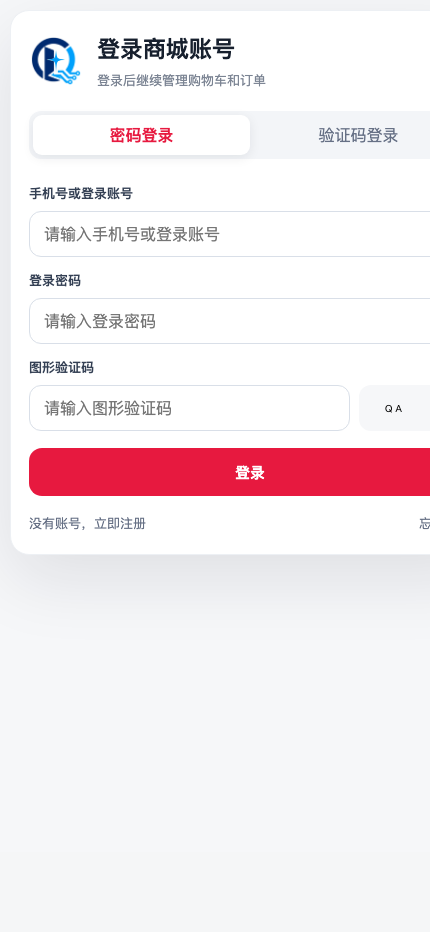
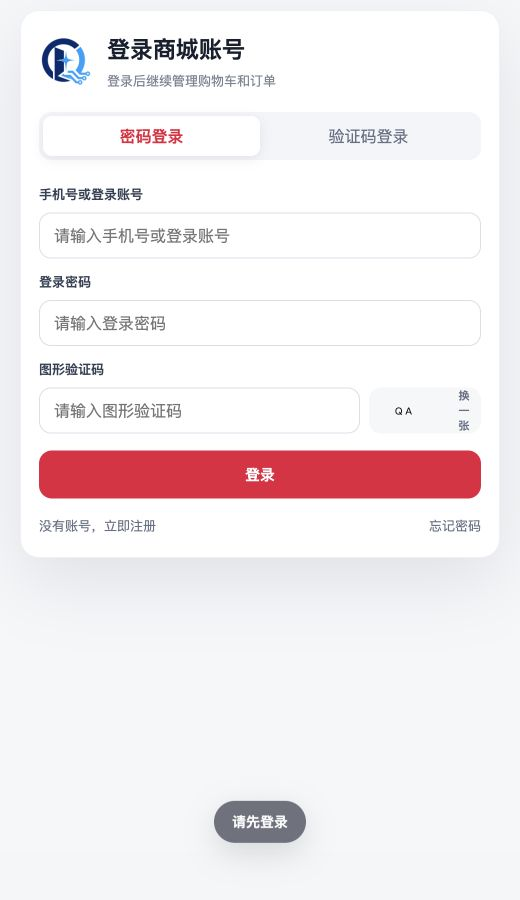
AI更新代码

diff --git a/mall-shop-web/src/App.vue b/mall-shop-web/src/App.vue
@@ -121,10 +121,10 @@ const navIconMap = { home: Home, category: Grid3x3, cart: ShoppingBag, orders: C
 const navIcon = (type) => navIconMap[type] || Home
 const bottomNavItems = computed(() => {
   let configured = null
-  let independent = false
+  let hasIndependentMarker = false
   try {
     const extra = JSON.parse(displayConfig.value.extraConfigJson || '{}')
-    independent = extra.bottomNavIndependent === 1
+    hasIndependentMarker = Object.prototype.hasOwnProperty.call(extra, 'bottomNavIndependent')
     if (Array.isArray(extra.bottomNav) && extra.bottomNav.length) {
       configured = extra.bottomNav
     }
@@ -133,7 +133,7 @@ const bottomNavItems = computed(() => {
     ? true
     : Number(displayConfig.value.showBottomCategoryNav ?? 1) === 1
   const items = resolveBottomNav(configured, { legacyCategoryEnabled })
-  if (!independent
+  if (!hasIndependentMarker
       && displayConfig.value.layoutTemplate === 'product-focus'
       && Number(displayConfig.value.showBottomCategoryNav ?? 1) === 0) {
     const category = items.find((item) => item.type === 'category')

diff --git a/mall-distribution-admin/src/views/tenant/list.vue b/mall-distribution-admin/src/views/tenant/list.vue
@@ -616,7 +616,7 @@ const openDisplayDialog = async (row, section = 'layout') => {
   displayExtraBase.value = extra && typeof extra === 'object' && !Array.isArray(extra) ? extra : {}
   const legacyBottomCategoryEnabled = Number(res.data?.showBottomCategoryNav ?? 1) === 1
   const hasConfiguredBottomNav = Array.isArray(extra.bottomNav) && extra.bottomNav.length > 0
-  const legacyTemplateCoupledCategory = extra.bottomNavIndependent !== 1
+  const legacyTemplateCoupledCategory = !Object.prototype.hasOwnProperty.call(extra, 'bottomNavIndependent')
     && res.data?.layoutTemplate === 'product-focus'
     && Number(res.data?.showBottomCategoryNav ?? 1) === 0
   const bottomNav = normalizeBottomNav(hasConfiguredBottomNav ? extra.bottomNav : null, {

diff --git a/mall-distribution-admin/tests/views/tenant-display.test.js b/mall-distribution-admin/tests/views/tenant-display.test.js
@@ -156,6 +156,7 @@ describe('商城视觉与页面工作台', () => {
     expect(source).toContain('确认放弃未保存修改？')
     expect(source).toContain('normalizeBottomNav(form.bottomNav)')
     expect(source).toContain('bottomNavIndependent: 1')
+    expect(source).toContain("Object.prototype.hasOwnProperty.call(extra, 'bottomNavIndependent')")
     for (const section of ['品牌视觉', '品牌文化页', '直播广场', '新品速递', '首页模块', '首页分类内容', '底部导航', '颜色细节']) {
       expect(source).toContain(section)
     }

diff --git a/mall-distribution/src/main/java/com/macro/mall/distribution/service/impl/TenantDisplayConfigSupport.java b/mall-distribution/src/main/java/com/macro/mall/distribution/service/impl/TenantDisplayConfigSupport.java
@@ -53,11 +53,29 @@ public class TenantDisplayConfigSupport {
     public void prepareForSave(DmsTenantDisplayConfig config) {
         validateRequiredCapabilities(config);
         fillDefaults(config);
+
+        ObjectNode extra = readExtraObject(config.getExtraConfigJson());
+        String submittedLayoutTemplate = config.getLayoutTemplate() == null
+                ? textValue(extra.get("layoutTemplate"), DEFAULT_LAYOUT_TEMPLATE)
+                : config.getLayoutTemplate();
+        Integer submittedCategoryEnabled = config.getShowBottomCategoryNav() == null
+                ? toggleValue(extra.get("showBottomCategoryNav"), 1)
+                : config.getShowBottomCategoryNav();
+        boolean restoreLegacyTemplateCoupledCategory = !extra.has("bottomNavIndependent")
+                && "product-focus".equals(submittedLayoutTemplate)
+                && normalizeToggle(submittedCategoryEnabled, 1) == 0;
+        if (config.getLayoutTemplate() == null) {
+            config.setLayoutTemplate(submittedLayoutTemplate);
+        }
+        if (config.getShowBottomCategoryNav() == null) {
+            config.setShowBottomCategoryNav(submittedCategoryEnabled);
+        }
+
         normalizeLayoutFields(config);
         validateActiveCategoryGuide(config);
 
-        ObjectNode extra = readExtraObject(config.getExtraConfigJson());
-        config.setShowBottomCategoryNav(normalizeBottomNav(extra, config.getShowBottomCategoryNav()));
+        config.setShowBottomCategoryNav(normalizeBottomNav(
+                extra, config.getShowBottomCategoryNav(), restoreLegacyTemplateCoupledCategory));
         List<BrandCultureImageRefVO> cultureImages = normalizeCultureImages(config.getBrandCultureDetailImages(), true);
         config.setBrandCultureDetailImages(cultureImages);
         ArrayNode cultureImageJson = extra.putArray("brandCultureDetailImages");
@@ -319,8 +337,10 @@ public class TenantDisplayConfigSupport {
     /**
      * 底部导航独立于首页版型。保留每个已知项的未知字段，仅将受控入口归一为最多五项。
      * 旧数组缺少分类时默认显示，缺少订单时默认隐藏；完全没有数组时仍尊重旧 showBottomCategoryNav 字段。
+     * 仅当独立标记缺失且命中旧紧凑版联动指纹时，首次保存恢复分类；写入标记后尊重用户手动关闭。
      */
-    private Integer normalizeBottomNav(ObjectNode extra, Integer legacyCategoryEnabled) {
+    private Integer normalizeBottomNav(ObjectNode extra, Integer legacyCategoryEnabled,
+                                       boolean restoreLegacyTemplateCoupledCategory) {
         JsonNode raw = extra.get("bottomNav");
         boolean hasConfiguredNav = raw != null && raw.isArray() && !raw.isEmpty();
         Map<String, ObjectNode> configured = new LinkedHashMap<>();
@@ -350,6 +370,8 @@ public class TenantDisplayConfigSupport {
             }
             int enabled;
             if (REQUIRED_BOTTOM_NAV_TYPES.contains(type)) {
+                enabled = 1;
+            } else if ("category".equals(type) && restoreLegacyTemplateCoupledCategory) {
                 enabled = 1;
             } else if (configured.containsKey(type)) {
                 enabled = toggleValue(item.get("enabled"), "category".equals(type) ? 1 : 0);

diff --git a/mall-distribution/src/test/java/com/macro/mall/distribution/service/TenantDisplayConfigSupportTest.java b/mall-distribution/src/test/java/com/macro/mall/distribution/service/TenantDisplayConfigSupportTest.java
@@ -273,6 +273,63 @@ class TenantDisplayConfigSupportTest {
     }
 
     @Test
+    void firstSaveRestoresLegacyProductFocusCategoryEvenWhenNavStoredItAsDisabled() throws Exception {
+        DmsTenantDisplayConfig legacy = new DmsTenantDisplayConfig();
+        legacy.setTenantId(12L);
+        legacy.setLayoutTemplate("product-focus");
+        legacy.setShowBottomCategoryNav(0);
+        legacy.setExtraConfigJson("{\"futureSetting\":\"keep\",\"bottomNav\":["
+                + "{\"type\":\"category\",\"enabled\":false,\"futureStyle\":\"keep\"},"
+                + "{\"type\":\"orders\",\"enabled\":true}]}");
+
+        support.prepareForSave(legacy);
+
+        JsonNode saved = objectMapper.readTree(legacy.getExtraConfigJson());
+        assertEquals(1, saved.path("bottomNav").get(1).path("enabled").asInt());
+        assertEquals("keep", saved.path("bottomNav").get(1).path("futureStyle").asText());
+        assertEquals(1, saved.path("bottomNav").get(3).path("enabled").asInt());
+        assertEquals("keep", saved.path("futureSetting").asText());
+        assertEquals(1, saved.path("bottomNavIndependent").asInt());
+        assertEquals(1, legacy.getShowBottomCategoryNav());
+    }
+
+    @Test
+    void firstSaveRestoresLegacyProductFocusCategoryWhenBottomNavIsMissing() throws Exception {
+        DmsTenantDisplayConfig legacy = new DmsTenantDisplayConfig();
+        legacy.setTenantId(13L);
+        legacy.setExtraConfigJson("{\"layoutTemplate\":\"product-focus\","
+                + "\"showBottomCategoryNav\":0,\"futureSetting\":\"keep\"}");
+
+        support.prepareForSave(legacy);
+
+        JsonNode saved = objectMapper.readTree(legacy.getExtraConfigJson());
+        assertEquals(1, saved.path("bottomNav").get(1).path("enabled").asInt());
+        assertEquals(0, saved.path("bottomNav").get(3).path("enabled").asInt());
+        assertEquals("product-focus", saved.path("layoutTemplate").asText());
+        assertEquals(1, saved.path("bottomNavIndependent").asInt());
+        assertEquals("keep", saved.path("futureSetting").asText());
+        assertEquals(1, legacy.getShowBottomCategoryNav());
+    }
+
+    @Test
+    void independentMarkerPreservesUserDisabledCategoryOnProductFocus() throws Exception {
+        DmsTenantDisplayConfig independent = new DmsTenantDisplayConfig();
+        independent.setTenantId(14L);
+        independent.setLayoutTemplate("product-focus");
+        independent.setShowBottomCategoryNav(0);
+        independent.setExtraConfigJson("{\"bottomNavIndependent\":1,\"bottomNav\":["
+                + "{\"type\":\"category\",\"enabled\":false,\"futureStyle\":\"keep\"}]}");
+
+        support.prepareForSave(independent);
+
+        JsonNode saved = objectMapper.readTree(independent.getExtraConfigJson());
+        assertEquals(0, saved.path("bottomNav").get(1).path("enabled").asInt());
+        assertEquals("keep", saved.path("bottomNav").get(1).path("futureStyle").asText());
+        assertEquals(1, saved.path("bottomNavIndependent").asInt());
+        assertEquals(0, independent.getShowBottomCategoryNav());
+    }
+
+    @Test
     void tenantConfigurationsRemainIndependent() {
         DmsTenantDisplayConfig first = new DmsTenantDisplayConfig();
         first.setTenantId(21L);

diff --git a/document/DAILY_LOG.md b/document/DAILY_LOG.md
@@ -6,7 +6,8 @@
 
 - 完成首页版型与底部导航解耦（本地待发布，`VERSION`仍为`1.0.90`）：标准零售、紧凑商品、活动信息流、分类导购四种版型只控制首页内容结构和密度，切换、初始化、历史迁移与往返保存均不再增删、重排或覆盖底部导航。工作台“底部导航”只保留“分类”“订单”两个可选业务入口；首页、购物车、我的作为基础入口始终保留，不恢复“系统必需能力”面板或大量锁定控件。底栏统一按首页 / 分类（可选）/ 购物车 / 订单（可选）/ 我的解析且最多5项；隐藏分类不关闭分类页面或首页分类模块，隐藏订单不关闭订单能力，“我的”中的订单入口与登录、订单归属保护保持不变。
 - 完成历史装修兼容和服务端二次保护：旧配置缺少分类项默认显示，避免升级后分类入口消失；新增订单项在旧配置缺失时默认隐藏，避免自动改变客户现有导航；可明确识别的旧紧凑版型联动痕迹只恢复一次，未知扩展字段原样保留。保存仍强制保留首页、购物车、我的基础入口，但允许分类和订单独立关闭，不新增数据库迁移或DDL，继续复用`extra_config_json`。
-- 验证通过：公共后端14/14、分销后端492/492（合计506/506）、商城90/90、管理后台134/134；后端正式打包、管理后台及公开商城/团队H5/一体化H5生产构建和三端边界门禁全部通过。浏览器本地模拟覆盖四版型同一5导航、分类关闭、订单关闭、分类导购A/B/C及公开商城未登录访问订单回跳登录页，后台模拟源控制台错误/警告0、无横向溢出；证据见`document/qa/2026-08-26-bottom-nav-*.png`。本轮未连接或修改生产、未写客户装修配置、未发布、未新增环境变量、未更新XMind。
+- 独立QA发现首版服务端保存遗漏旧紧凑商品版联动指纹：前端读取会恢复分类，但后端首次保存可能把旧`category=false`直接写成新的独立选择。现后端与管理后台、公开商城统一只在`bottomNavIndependent`字段完全缺失、版型为`product-focus`且旧`showBottomCategoryNav=0`时恢复一次分类，不论旧`bottomNav`中已有`category=false`还是整个数组缺失；随后写入标记。标记存在后，用户主动关闭分类会永久保持关闭，未知顶层与导航项扩展字段继续保留。
+- 回修后验证通过：迁移专项15/15、公共后端14/14、分销后端495/495（合计509/509）、商城90/90、管理后台134/134；后端正式打包、管理后台及公开商城/团队H5/一体化H5生产构建和三端边界门禁重新通过。浏览器本地模拟覆盖四版型同一5导航、分类关闭、订单关闭、分类导购A/B/C；公开商城未登录访问`/orders`精确回跳`/login?redirect=/orders&authRequired=1`并显示“请先登录”。后台模拟源控制台错误/警告0、无横向溢出；证据见`document/qa/2026-08-26-bottom-nav-*.png`。本轮未连接或修改生产、未写客户装修配置、未发布、未新增环境变量、未更新XMind。
 - 完成品牌文化首页入口收口（本地待发布，`VERSION`仍为`1.0.90`）：品牌文化横幅统一在“商城视觉与页面 → 首页模块 → 轮播图片与跳转”维护，点击动作使用固定内部枚举并进入品牌文化独立页，不读取任意网址；横幅建议750×320px、JPG/PNG/WebP、单张不超过3MB，并由服务端校验当前客户专用上传目录、实际文件类型和大小。页面总开关关闭时已配置横幅自动不公开且不能启用，关闭不会删除横幅、详情图或旧配置，重新开启后可继续使用。
 - 品牌文化独立页在有详情图时直接从1–10张长图开始，无重复封面、品牌头部、商城底部入口或底部导航；图片按750px内容宽保持原比例、懒加载、无裁切、无间距和无横向滚动。独立QA进一步发现底部导航隐藏后页面仍继承82px旧占位，现仅在有详情图时同步清零底部占位；无详情图的旧封面/正文兜底及其他页面保持原行为。标题/一句话介绍保留为可选元数据，旧`brandCultureCoverUrl`与旧正文不删除、不改写。后台隐藏旧封面编辑入口，但保留兼容上传和保存链路。
 - 安全复核修复品牌文化轮播和上传的跨客户伪造风险：轮播更新先从数据库原记录锁定客户，再执行图片归属、页面总开关和启用状态校验；新增轮播忽略客户端传入客户编号并强制使用当前认证客户；上传要求请求客户与当前认证客户严格一致，且只写当前客户目录。新增跨客户更新/上传、其他客户开关绕过、图片归属、启用状态和伪造新增客户自动化。

diff --git a/document/RELEASE_REPORT.md b/document/RELEASE_REPORT.md
@@ -10,9 +10,9 @@
 - 修复四种首页版型错误改写底部导航的问题：旧逻辑在套用版型时同时修改首页分类模块和`bottomNav.category.enabled`，其中紧凑商品版会把分类底栏入口关闭，导致用户切换版型后“分类”消失并被保存。现版型只管理首页内容结构与信息密度，应用版型、初始化、默认值、历史兼容、保存和刷新都不再增删、重排或覆盖底部导航。
 - 底部导航继续在工作台独立分组维护，配置区只显示“分类”和“订单”两个可选入口，不增加用户此前否定的“系统必需能力”面板、锁定清单或复杂排序控件。首页、购物车、我的作为基础入口始终存在；统一解析顺序为首页 / 分类（可选）/ 购物车 / 订单（可选）/ 我的，最多5项，四版型和分类导购A/B/C共用同一解析器。
 - 隐藏分类只移除底栏入口，不关闭分类路由、搜索、首页分类模块或分类导购内容；隐藏订单只移除底栏入口，不关闭订单能力，“我的”中的订单入口和直接访问仍保留。公开商城未登录访问`/orders`继续进入现有登录回跳，订单读取仍执行登录与会员归属保护；交易、购物车、账号与订单安全边界未削弱。
-- 历史配置兼容：已有分类显示状态按原值保留；旧配置缺少分类字段时默认显示，避免升级后入口消失；新增订单字段在旧配置缺失时默认隐藏，避免上线后擅自改变客户导航。可明确识别的旧紧凑版型联动痕迹只执行一次安全恢复；已知导航项和顶层配置中的未知扩展字段均原样保留。后端保存归一化与前端预览、公开商城采用同一规则，基础入口被旧客户端禁用时仍拒绝或恢复。
-- 自动化覆盖四版型 × 分类开关 × 订单开关、版型往返后的草稿/保存/JSON刷新、历史缺字段默认、固定顺序与最多5项、未知字段保留、分类和订单路由能力不关闭及三端构建边界。公共后端14/14、分销后端492/492（合计506/506）、商城90/90、管理后台134/134通过；后端正式打包、管理后台及公开商城/团队H5/一体化H5生产构建和三端边界门禁全部通过。
-- 本地浏览器模拟确认四版型均显示同一组5导航；关闭分类只移除分类，关闭订单只移除订单；分类导购A/B/C切换正常，后台模拟源控制台错误/警告0且无横向溢出。公开商城空会话访问订单页进入现有登录页，证据见`document/qa/2026-08-26-bottom-nav-*.png`。
+- 历史配置兼容：已有分类显示状态按原值保留；旧配置缺少分类字段时默认显示，避免升级后入口消失；新增订单字段在旧配置缺失时默认隐藏，避免上线后擅自改变客户导航。独立QA发现首版仅在两个前端恢复旧紧凑版型联动痕迹，后端首次保存仍可能固化旧`category=false`，现已阻断回修：管理后台、公开商城和后端统一只在`bottomNavIndependent`字段完全缺失、`layoutTemplate=product-focus`且旧`showBottomCategoryNav=0`时恢复一次分类；旧数组明确保存`category=false`和整个数组缺失两类数据均覆盖。首次保存写入标记后，用户主动关闭分类必须保持关闭，绝不再次迁移。已知导航项和顶层配置中的未知扩展字段均原样保留。
+- 自动化覆盖四版型 × 分类开关 × 订单开关、版型往返后的草稿/保存/JSON刷新、历史缺字段默认、固定顺序与最多5项、未知字段保留、分类和订单路由能力不关闭及三端构建边界；另增加旧数组分类关闭、旧数组缺失、独立标记后手动关闭三种服务端精确回归。迁移专项15/15、公共后端14/14、分销后端495/495（合计509/509）、商城90/90、管理后台134/134通过；后端正式打包、管理后台及公开商城/团队H5/一体化H5生产构建和三端边界门禁重新通过。
+- 本地浏览器模拟确认四版型均显示同一组5导航；关闭分类只移除分类，关闭订单只移除订单；分类导购A/B/C切换正常，后台模拟源控制台错误/警告0且无横向溢出。公开商城空会话访问`/orders`精确进入`/login?redirect=/orders&authRequired=1`并显示“请先登录”，加宽视口证据完整无右侧裁切，见`document/qa/2026-08-26-bottom-nav-orders-login-redirect.png`；其余证据见同日前缀截图。
 - 本轮继续复用客户级`extra_config_json`，未新增数据库迁移、DDL或环境变量；未连接或修改生产，未写客户配置或业务数据，未发布，`VERSION`仍为`1.0.90`，线上仍为`1.0.90`，XMind按用户要求未更新。
 
 ### 1.0.90 后续本地增量：品牌文化轮播入口与完整长图页（待发布）
